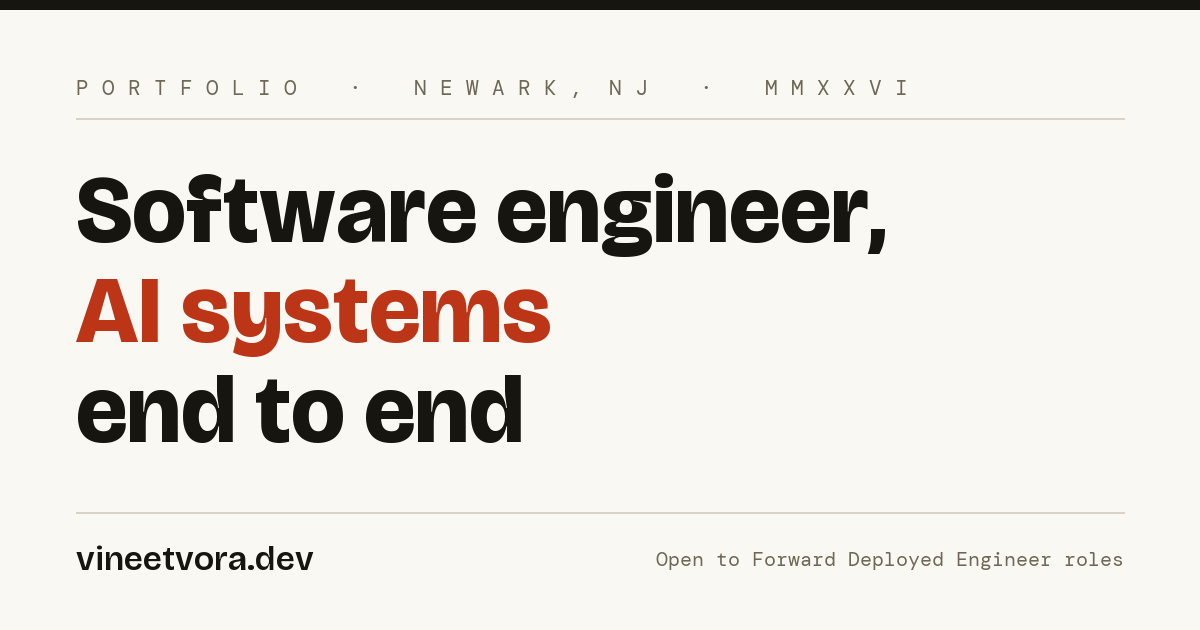
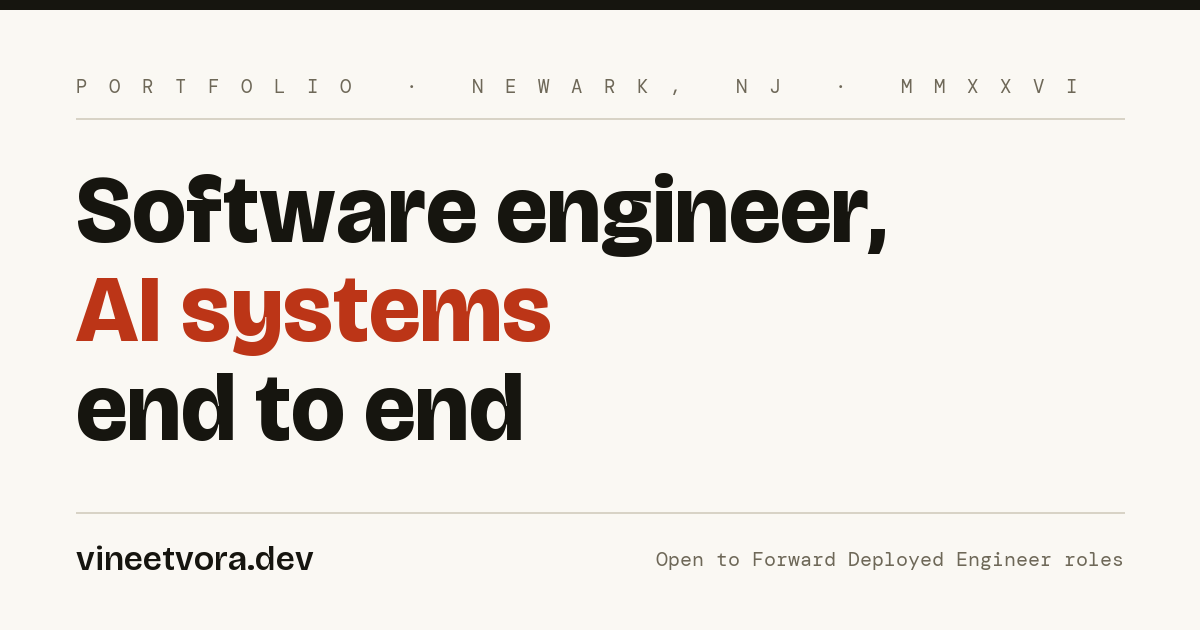
Auto-fit the OG card kicker so it can't overrun the margin

diff --git a/og/make_og.py b/og/make_og.py
@@ -1,14 +1,16 @@
 #!/usr/bin/env python3
 """
-Builds the Open Graph card for vineetvora.dev — the 1200x630 image LinkedIn,
-Slack, Twitter and iMessage show when the link is shared.
+Builds link cards in the site's v3 "dossier" language — warm paper, one
+vermillion accent, Bricolage Grotesque display, DM Mono annotations.
 
-Matches the site's v3 "dossier" design: warm paper, one vermillion accent,
-Bricolage Grotesque display, DM Mono annotations.
+    python3 make_og.py
 
-Fonts are fetched from the Google Fonts repo into /tmp/ogfonts on first run.
+Outputs:
+    ../og-card.png                        site Open Graph image (referenced by index.html)
+    ../../linkedin/thumbnails/ieee.png    custom thumbnail to upload for the IEEE link,
+                                          because ieeexplore.ieee.org serves no og:image
 
-    python3 make_og.py            # writes ../og-card.png
+Fonts are pulled from the Google Fonts repo into /tmp/ogfonts on first run.
 """
 
 import os
@@ -18,9 +20,11 @@ from PIL import Image, ImageDraw, ImageFont
 W, H = 1200, 630
 PAPER = (250, 248, 243)
 INK = (22, 21, 15)
+INK_2 = (75, 71, 61)
 INK_3 = (110, 104, 88)
 ACCENT = (188, 53, 23)
 RULE = (216, 211, 198)
+M = 76  # margin
 
 FONT_DIR = "/tmp/ogfonts"
 BASE = "https://raw.githubusercontent.com/google/fonts/main/ofl"
@@ -36,13 +40,10 @@ def ensure_fonts():
         path = os.path.join(FONT_DIR, name)
         if not os.path.exists(path) or os.path.getsize(path) < 1000:
             subprocess.run(["curl", "-sL", "-o", path, url], check=True)
-    return FONT_DIR
 
 
 def display(size, weight=800):
-    """Bricolage Grotesque at a given weight, via the variable-font axes."""
     f = ImageFont.truetype(os.path.join(FONT_DIR, "Bricolage.ttf"), size)
-    # axes order: Optical size, Weight, Width
     f.set_variation_by_axes([min(96, max(12, size)), weight, 100])
     return f
 
@@ -51,53 +52,92 @@ def mono(size):
     return ImageFont.truetype(os.path.join(FONT_DIR, "DMMono.ttf"), size)
 
 
-def build(out_path):
+def spaced(text):
+    return "  ".join(text.upper())
+
+
+def fit_display(draw, lines, start_size, max_w, weight=800):
+    """Largest display size at which every line fits the column."""
+    size = start_size
+    while size > 40:
+        f = display(size, weight)
+        if all(draw.textbbox((0, 0), ln, font=f)[2] <= max_w for ln in lines):
+            return f, size
+        size -= 2
+    return display(40, weight), 40
+
+
+def card(kicker, lines, accent_index, footer_left, footer_right, sub=None):
     ensure_fonts()
     img = Image.new("RGB", (W, H), PAPER)
     d = ImageDraw.Draw(img)
+    col = W - 2 * M
 
-    M = 76  # margin
-
-    # ── masthead rule ────────────────────────────────────────────────
     d.rectangle([0, 0, W, 9], fill=INK)
 
-    # ── kicker ───────────────────────────────────────────────────────
-    kicker = mono(21)
-    d.text((M, 74), "P O R T F O L I O    ·    N E W A R K ,  N J    ·    M M X X V I",
-           font=kicker, fill=INK_3)
+    # Letter-spaced kicker gets wide fast — shrink until it clears the margin.
+    ktext = spaced(kicker)
+    for ks in (21, 20, 19, 18, 17, 16, 15, 14):
+        kfont = mono(ks)
+        if d.textbbox((0, 0), ktext, font=kfont)[2] <= col:
+            break
+    d.text((M, 74), ktext, font=kfont, fill=INK_3)
     d.rectangle([M, 118, W - M, 119], fill=RULE)
 
-    # ── headline ─────────────────────────────────────────────────────
-    big = display(96, 800)
-    y = 152
-    lh = 100
-    d.text((M, y), "Software engineer,", font=big, fill=INK)
-    d.text((M, y + lh), "AI systems", font=big, fill=ACCENT)
-    d.text((M, y + lh * 2), "end to end", font=big, fill=INK)
+    big, size = fit_display(d, lines, 96, col)
+    lh = int(size * 1.04)
+    top = 152 if not sub else 146
+    for i, ln in enumerate(lines):
+        d.text((M, top + lh * i), ln, font=big, fill=ACCENT if i == accent_index else INK)
 
-    # ── footer ───────────────────────────────────────────────────────
+    if sub:
+        d.text((M, top + lh * len(lines) + 14), sub, font=mono(21), fill=INK_2)
+
     d.rectangle([M, H - 118, W - M, H - 117], fill=RULE)
 
-    url_font = display(34, 600)
-    url_text = "vineetvora.dev"
-    d.text((M, H - 92), url_text, font=url_font, fill=INK)
-    url_w = d.textbbox((M, H - 92), url_text, font=url_font)[2]
+    lf = display(34, 600)
+    d.text((M, H - 92), footer_left, font=lf, fill=INK)
+    left_w = d.textbbox((M, H - 92), footer_left, font=lf)[2]
 
-    # Right-aligned strapline. Shrink until it clears the URL with a real gap
-    # rather than trusting that it happens to fit.
-    line = "Open to Forward Deployed Engineer roles"
-    for size in (20, 19, 18, 17, 16):
-        meta = mono(size)
-        w = d.textbbox((0, 0), line, font=meta)[2]
-        if (W - M - w) - url_w >= 48:
+    for s in (20, 19, 18, 17, 16, 15):
+        rf = mono(s)
+        rw = d.textbbox((0, 0), footer_right, font=rf)[2]
+        if (W - M - rw) - left_w >= 48:
             break
-    d.text((W - M - w, H - 84), line, font=meta, fill=INK_3)
+    d.text((W - M - rw, H - 84), footer_right, font=rf, fill=INK_3)
 
-    img.save(out_path, "PNG", optimize=True)
-    return out_path
+    return img
+
+
+def main():
+    here = os.path.dirname(os.path.abspath(__file__))
+    root = os.path.normpath(os.path.join(here, "..", ".."))
+
+    site = card(
+        kicker="Portfolio · Newark, NJ · MMXXVI",
+        lines=["Software engineer,", "AI systems", "end to end"],
+        accent_index=1,
+        footer_left="vineetvora.dev",
+        footer_right="Open to Forward Deployed Engineer roles",
+    )
+    p1 = os.path.join(here, "..", "og-card.png")
+    site.save(p1, "PNG", optimize=True)
+    print("wrote", os.path.normpath(p1), os.path.getsize(p1), "bytes")
+
+    ieee = card(
+        kicker="Publication · IEEE · NJFET 2025",
+        lines=["Catching faults", "before they", "become fires"],
+        accent_index=2,
+        sub="Automatic power line defect detection from UAV imagery",
+        footer_left="IEEE Xplore",
+        footer_right="DOI 10.1109/NJFET67489.2025.11380637",
+    )
+    out_dir = os.path.join(root, "linkedin", "thumbnails")
+    os.makedirs(out_dir, exist_ok=True)
+    p2 = os.path.join(out_dir, "ieee.png")
+    ieee.save(p2, "PNG", optimize=True)
+    print("wrote", os.path.normpath(p2), os.path.getsize(p2), "bytes")
 
 
 if __name__ == "__main__":
-    here = os.path.dirname(os.path.abspath(__file__))
-    out = build(os.path.join(here, "..", "og-card.png"))
-    print("wrote", os.path.normpath(out), os.path.getsize(out), "bytes")
+    main()
